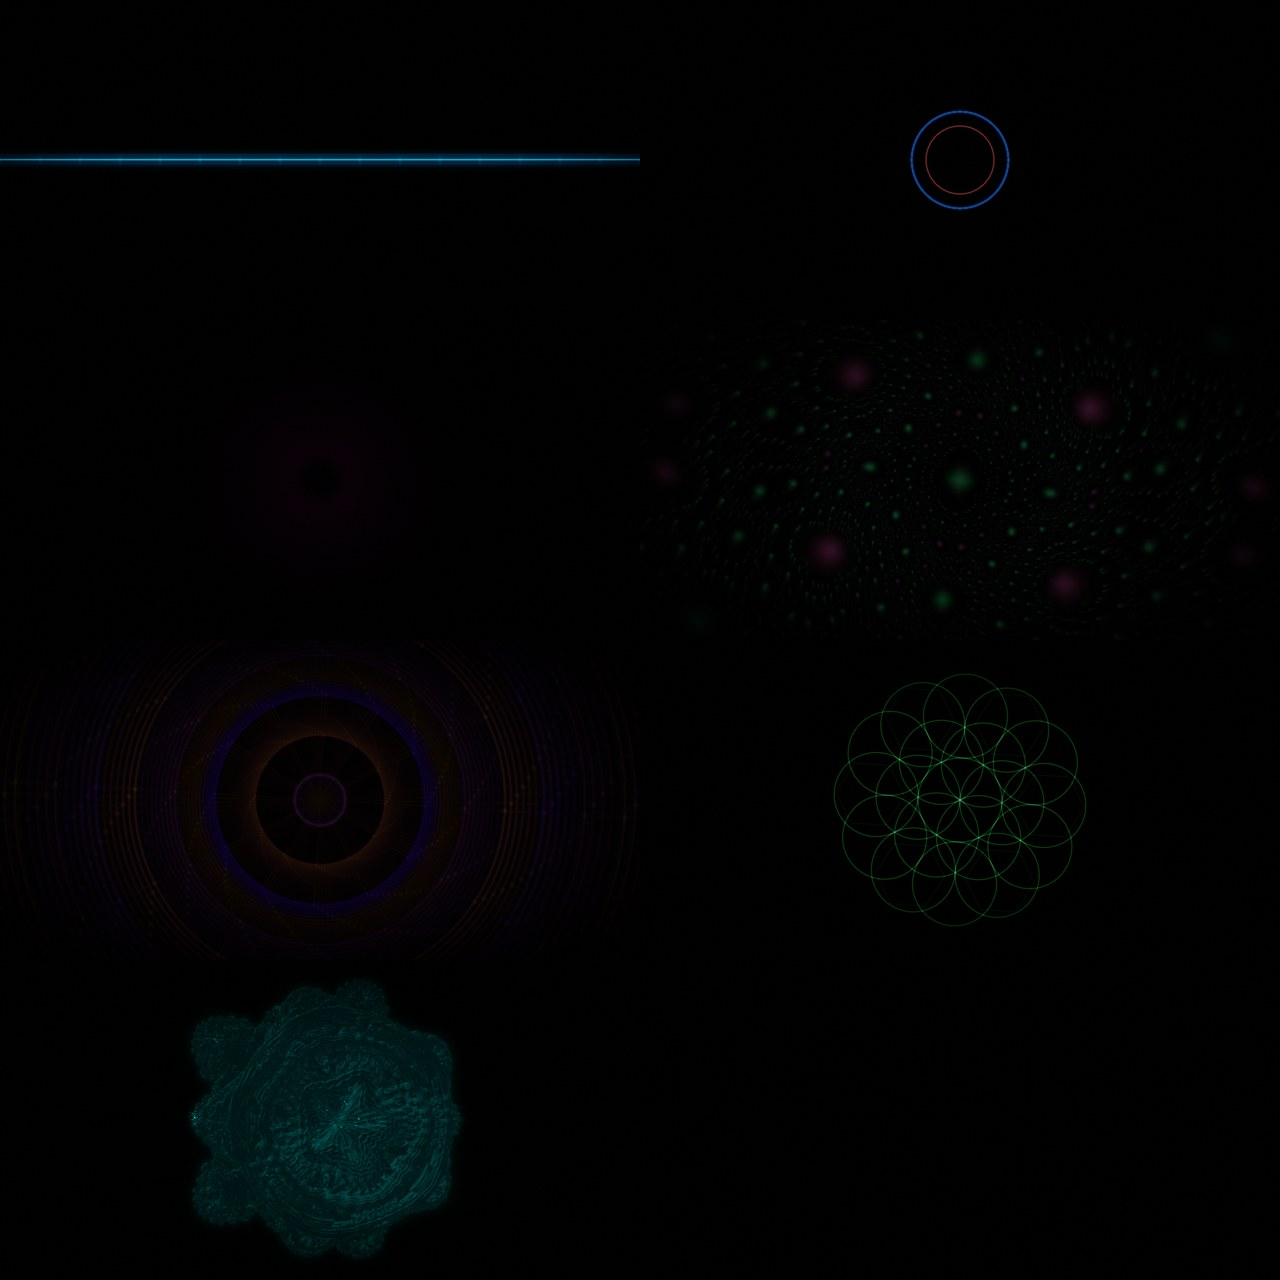
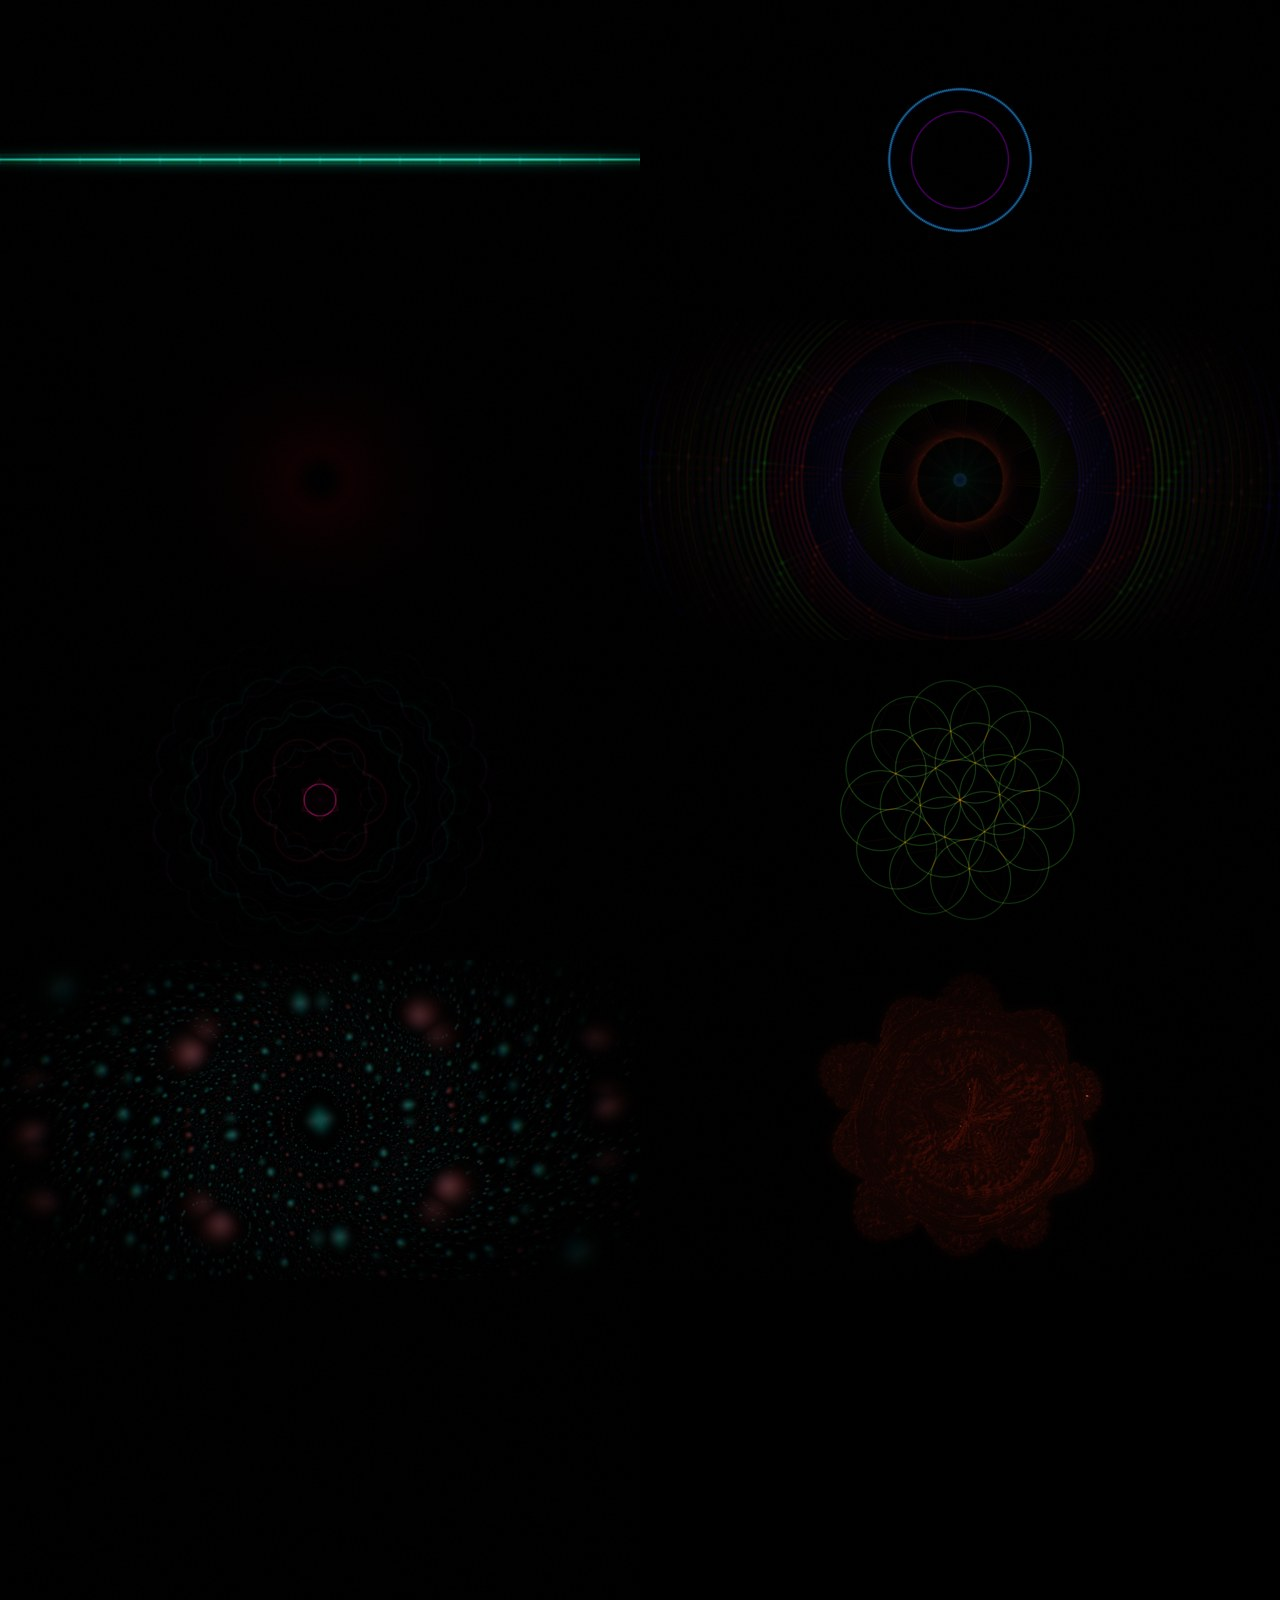
Do not sit dead for three seconds on a fresh load
The silence hold exists so a quiet passage of real audio does not flap the
visuals into idle. It was also applying when no source had ever been connected,
where there is nothing to flap: every fresh load reported silent=false with
energy=0 for a full three seconds, which freezes the animation clock and holds
brightness at the dim floor. Nothing appeared to happen.

Measured at 900x420, energy over the first second of a fresh load:

  before  t=0.5s 0.000   t=1.0s 0.000   t=3.0s 0.044
  after   t=0.5s 0.031   t=1.0s 0.067

First paint was never the problem: 142ms on the production build, 253ms in dev.

Claude-Session: https://claude.ai/code/session_01Rz2pBbf1e2CyCAVEoKFDCW

diff --git a/src/audio/engine.ts b/src/audio/engine.ts
@@ -94,8 +94,11 @@ export class AudioEngine {
     f.centroid = spectralCentroid(this.bandMag, this.ctx.sampleRate, cfg.fftBands)
     f.flatness = spectralFlatness(this.bandMag)
 
+    // The hold stops a quiet passage of real audio flapping into idle. With no
+    // source connected there is nothing to flap, so do not make a fresh load
+    // sit dead for three seconds before anything moves.
     this.silentFor = f.rms < cfg.silenceRms ? this.silentFor + dt : 0
-    f.silent = this.silentFor > cfg.silenceHoldS
+    f.silent = this.source === null || this.silentFor > cfg.silenceHoldS
 
     this.splitter.split(this.bandMag, this.raw)
     this.envelopes.process(this.raw, dt, f.bands)

diff --git a/src/gl/pipeline.ts b/src/gl/pipeline.ts
@@ -95,6 +95,7 @@ export class Pipeline {
     this.history = [createTarget(gl, 1, 1), createTarget(gl, 1, 1)]
   }
 
+
   /** 1D R8 lookup table for per-frame audio data. */
   private makeDataTexture(width: number): WebGLTexture {
     const gl = this.gl
